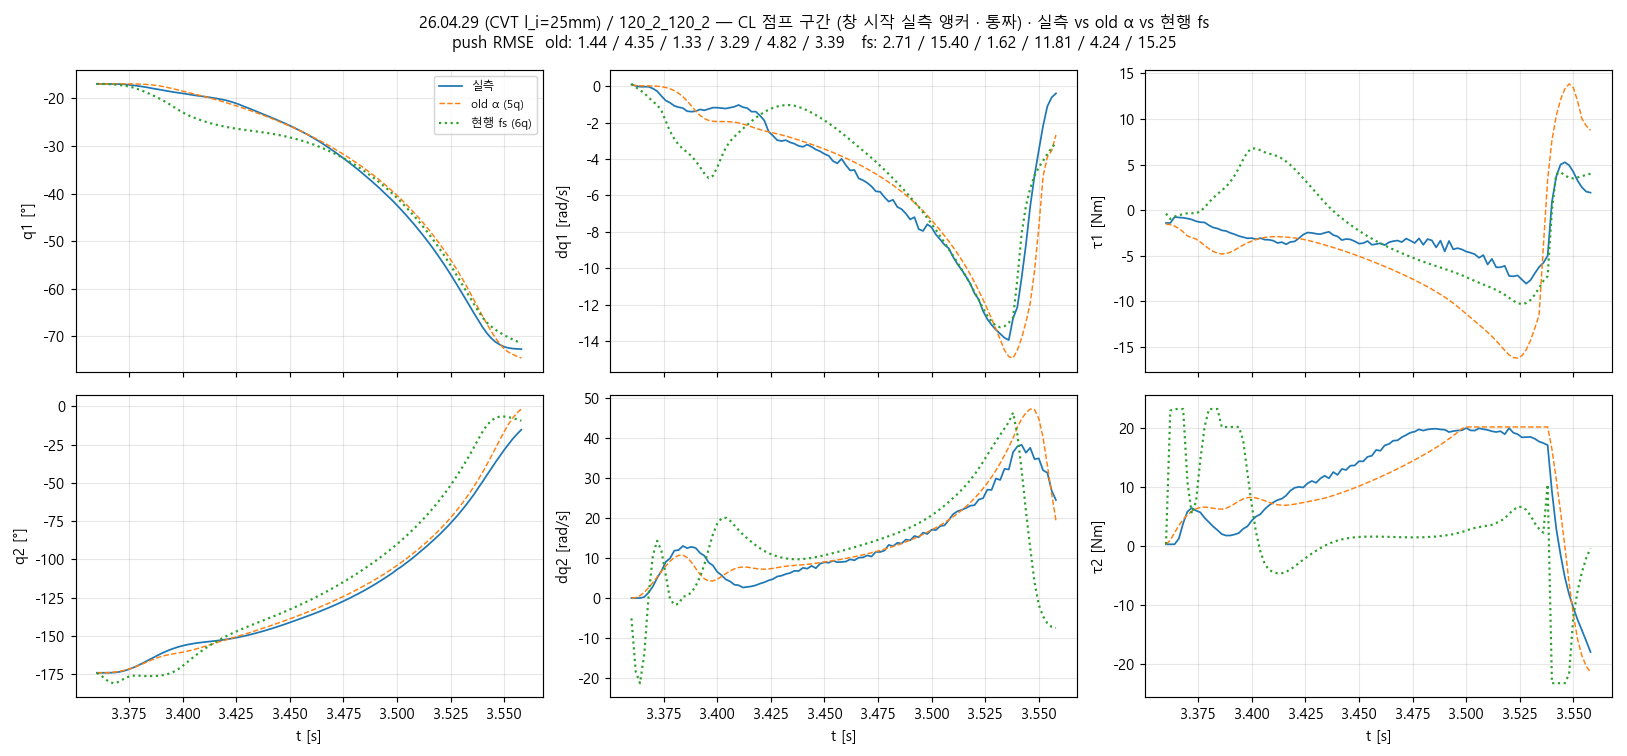
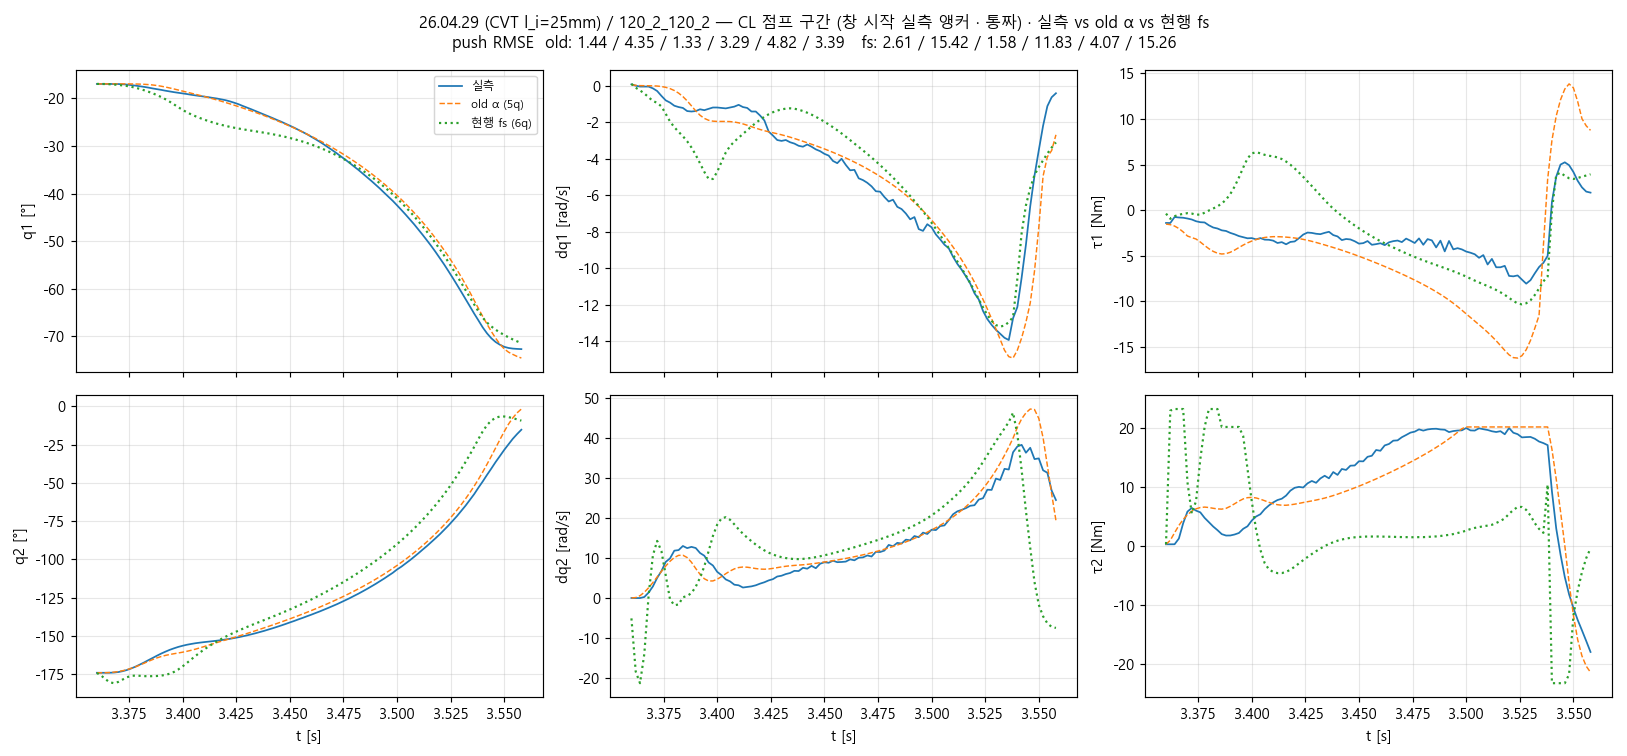
마라톤E P8 완전성: CVT 경로 중립 확인·mu_hold/v_stop 둔감성·랩업 체크리스트 완료 (fs16 사용자 승격 판단만 잔존)
Claude-Session: https://claude.ai/code/session_01PFCTSwAVUirG99naodJ3Kh

Changed region(s): [[0.9219, 0.6693, 0.9527, 0.6997], [0.8605, 0.3347, 0.8912, 0.3651], [0.3995, 0.1217, 0.4302, 0.1521]]

diff --git a/code/goal23_fullspan/MARATHON_E_SLIP.md b/code/goal23_fullspan/MARATHON_E_SLIP.md
@@ -128,3 +128,18 @@ FS_TAULIM=20.5 FS_VDES0=26.04.21 FS_QDSHIFT=2 FS_TKOVR=1.0 FS_KDSC=1.0 **FS_PRES
 - **MA 9/9 세션 q1·q2 동시 개선 유지** · dq2말기 세션합 9.838 (fs15 9.954)
 
 **fs16 최종 = fs15 + `FS_PRESLIDE=0.86,0.85`** (_compare 그래프 최종 env로 재생성).
+
+## Phase 8 — 완전성 감사 (08-02 02:20)
+- **CVT(0429) 경로** (보드 밖 세션, 정직 기록): CL 평균 fs15→fs16 q1 3.35→3.45(+3%)·τ1 4.45→4.60(+3.4%)·
+  q2/dq1/dq2/τ2 평평~미개선 — **사실상 중립** (CVT 오차 본체는 전달 형태 문제, REJECTED #49/51 이월).
+- **강건성**: v_stop 0.02→0.005 무감 · mu_hold {1.5, 2.0, 3.0} → D_slip {+14.9, +15.2, +15.2} — 보조
+  파라미터 전부 둔감 (동정된 물리는 μ_s/μ_k 2개뿐).
+- 노션: 허브 + Phase 0-1 / Phase 2-4 / Phase 5-6·최종(+P7 추록) 차일드 3매 (sonnet 위임, 렌더 검증).
+
+## 랩업 체크리스트 (전 항목 완료 — 마감 알람은 확인만)
+- [x] 지표 게이트: J 0.8543→**0.8243** · MA 9/9 동시 개선 · HO 0324 개선 · 배포 앵커 6채널 개선 ·
+      D_slip +15.2mm(영상 정합) · dq2말기 9.954→9.838 · 정적 홀드 문턱 정합(0.86>0.853) — **전부 통과**
+- [x] REJECTED #65(벡터 레일 마찰 4번째 역전)·#66(레일 흔들림 영상 불성립) 추가
+- [x] 메모리 marathon-e-slip-260802.md + MEMORY.md 인덱스
+- [x] git 커밋 (5bee278→c67ae15 + 본 커밋) · _compare 126장 fs16 최종 env 재생성
+- [ ] CURRENT_STACK 승격: fs15 전례대로 **사용자 판단 대기** (fs16 = fs15 env + FS_PRESLIDE=0.86,0.85)
